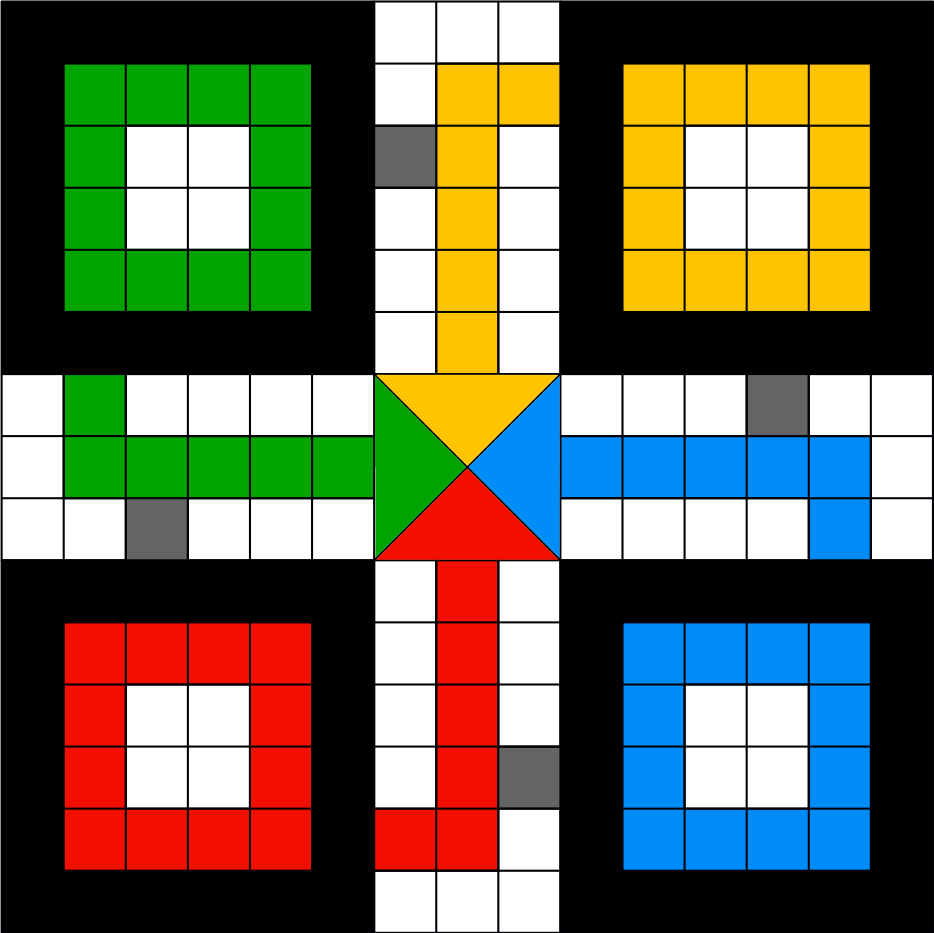
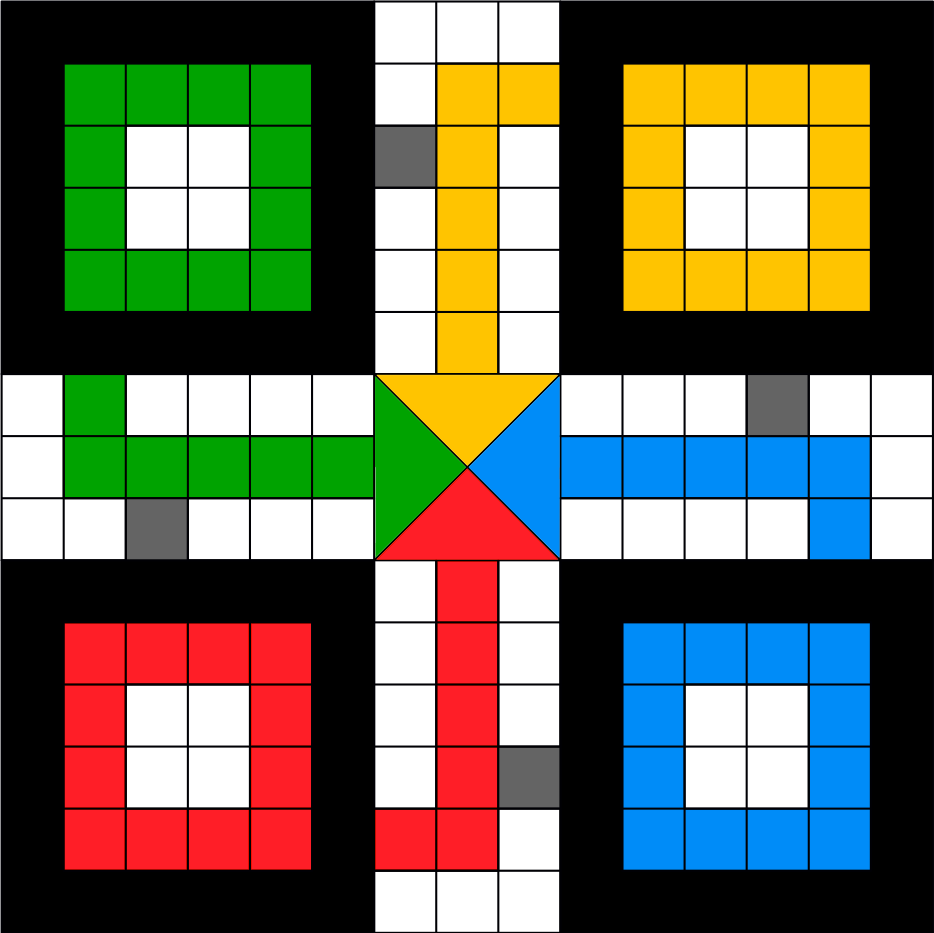
added logic on user turn

Changed region(s): [[0.0621, 0.6527, 0.3415, 0.9325], [0.4036, 0.4973, 0.5899, 0.9325]]

diff --git a/lib/providers/game_state.dart b/lib/providers/game_state.dart
@@ -102,7 +102,7 @@ class GameState with ChangeNotifier {
         });
       }
       if (cutToken != null) {
-        _cutOutToken(cutToken, duration, existingToken);
+        _cutOutToken(cutToken, duration);
       }
       validateFreeTurn(steps, token, cutToken);
     } else if (token.tokenState != TokenState.initial) {
@@ -123,7 +123,7 @@ class GameState with ChangeNotifier {
         });
       }
       if (cutToken != null) {
-        _cutOutToken(cutToken, duration, existingToken);
+        _cutOutToken(cutToken, duration);
       }
        validateFreeTurn(steps, token, cutToken);
     }
@@ -131,36 +131,35 @@ class GameState with ChangeNotifier {
 
   validateFreeTurn(int steps, Token token, var cutToken) {
     if (steps == 6) {
-      FreeTurn.updateFreeTurn(token.userId, true);
-    } else {
+      FreeTurn.updateUserStatus(token.userId, true, false);
+     } else {
       updateNextTurn(token);
     }
     if (cutToken != null) {
-      FreeTurn.updateFreeTurn(token.userId, true);
+      FreeTurn.updateUserStatus(token.userId, true, false);
     } else if (steps != 6) {
       updateNextTurn(token);
     }
   }
 
   void updateNextTurn(Token token) {
-    FreeTurn.updateFreeTurn(token.userId, false);
+    FreeTurn.updateUserStatus(token.userId, false, false);
     int userIdIndex = assignableUserIds.indexOf(token.userId);
     if(userIdIndex < 3) {
-      FreeTurn.updateFreeTurn(assignableUserIds[userIdIndex+1], true);
+      FreeTurn.updateUserStatus(assignableUserIds[userIdIndex+1], true, false);
     } else {
-      FreeTurn.updateFreeTurn(assignableUserIds[0], true);
+      FreeTurn.updateUserStatus(assignableUserIds[0], true, false);
     }
   }
 
-  _cutOutToken(Token cutToken, int duration, Token existingToken) {
+  _cutOutToken(Token cutToken, int duration) {
     int cutSteps = cutToken.positionInPath;
     for (int i = 1; i <= cutSteps; i++) {
       duration = duration + 100;
       Future.delayed(Duration(milliseconds: duration), () {
         int stepLoc = cutToken.positionInPath - 1;
-        existingToken.tokenPosition =
-            _getPosition(cutToken.type, stepLoc);
-        existingToken.positionInPath = stepLoc;
+        cutToken.tokenPosition = _getPosition(cutToken.type, stepLoc);
+        cutToken.positionInPath = stepLoc;
         cutToken.positionInPath = stepLoc;
         notifyListeners();
       });
@@ -252,29 +251,29 @@ class GameState with ChangeNotifier {
     switch (token.type) {
       case TokenType.green:
         {
-          gameTokens[token.id].tokenState = TokenState.initial;
-          gameTokens[token.id].tokenPosition = greenInitital.first;
+          token.tokenState = TokenState.initial;
+          token.tokenPosition = greenInitital.first;
           greenInitital.removeAt(0);
         }
         break;
       case TokenType.yellow:
         {
-          gameTokens[token.id].tokenState = TokenState.initial;
-          gameTokens[token.id].tokenPosition = yellowInitital.first;
+          token.tokenState = TokenState.initial;
+          token.tokenPosition = yellowInitital.first;
           yellowInitital.removeAt(0);
         }
         break;
       case TokenType.blue:
         {
-          gameTokens[token.id].tokenState = TokenState.initial;
-          gameTokens[token.id].tokenPosition = blueInitital.first;
+          token.tokenState = TokenState.initial;
+          token.tokenPosition = blueInitital.first;
           blueInitital.removeAt(0);
         }
         break;
       case TokenType.red:
         {
-          gameTokens[token.id].tokenState = TokenState.initial;
-          gameTokens[token.id].tokenPosition = redInitital.first;
+          token.tokenState = TokenState.initial;
+          token.tokenPosition = redInitital.first;
           redInitital.removeAt(0);
         }
         break;

diff --git a/lib/widgets/tokenp.dart b/lib/widgets/tokenp.dart
@@ -12,21 +12,9 @@ class Tokenp extends StatelessWidget {
   //Function(Token) callBack;
   const Tokenp(this.token, this.dimentions, {super.key});
 
-  Color _getcolor() {
-    switch (token.type) {
-      case TokenType.green:
-        return Colors.green;
-      case TokenType.yellow:
-        return Colors.yellow.shade900;
-      case TokenType.blue:
-        return Colors.blue.shade600;
-      case TokenType.red:
-        return Colors.red;
-    }
-  }
-
   @override
   Widget build(BuildContext context) {
+    bool? freeTurn = FreeTurn.freeTurnMap[token.userId]?.getFreeTurn;
     final gameState = Provider.of<GameState>(context, listen: false);
     final dice = Provider.of<DiceModel>(context, listen: false);
     return AnimatedPositioned(
@@ -37,8 +25,8 @@ class Tokenp extends StatelessWidget {
       height: dimentions[3],
       child: GestureDetector(
         onTap: () {
-          print(FreeTurn.freeTurnMap[token.userId]);
-          if(FreeTurn.freeTurnMap[token.userId]!) {
+          bool? diceRoll = FreeTurn.freeTurnMap[token.userId]?.diceRoll;
+          if(freeTurn == true && diceRoll == true) {
             gameState.moveToken(token, detectTokenDiceNumber(token, dice));
           } else {
             showDialog(context: context, builder: (_) {
@@ -46,14 +34,11 @@ class Tokenp extends StatelessWidget {
             });
           }
         },
-        child: Card(
-          elevation: 5,
-          child: Icon(
+        child: Icon(
             Icons.cruelty_free_sharp,
             color: _getcolor(),
-            size: 25.0,
+            size: 28.0,
           ),
-        ),
       ),
     );
   }
@@ -72,5 +57,18 @@ class Tokenp extends StatelessWidget {
         return dice.diceTwoCount;
       }
       return 0;
+  }
+
+  Color _getcolor() {
+    switch (token.type) {
+      case TokenType.green:
+        return Colors.green.shade900;
+      case TokenType.yellow:
+        return Colors.yellow.shade900;
+      case TokenType.blue:
+        return Colors.blue.shade900;
+      case TokenType.red:
+        return Colors.red.shade900;
+    }
   }
 }

diff --git a/lib/main.dart b/lib/main.dart
@@ -22,7 +22,7 @@ class MyApp extends StatelessWidget {
   @override
   Widget build(BuildContext context) {
     return MaterialApp(
-      title: 'Flutter Demo',
+      title: 'Flame',
       theme: ThemeData(
         primarySwatch: Colors.blue,
       ),
@@ -32,7 +32,7 @@ class MyApp extends StatelessWidget {
             ChangeNotifierProvider(create: (context) => DiceModel()),
           ],
           child: const _MyHomePage(
-            title: 'Flutter Demo Home Page',
+            title: 'Flame',
             key: null,
           )),
     );
@@ -56,7 +56,7 @@ class _MyHomePageState extends State<_MyHomePage> {
   void initState() {
     userIds = [123,789,456,678];  
     detectDiceUserId();
-    FreeTurn.updateFreeTurn(assignableUserIds[0], true);
+    FreeTurn.updateUserStatus(assignableUserIds[0], true, false);
     super.initState();
   }
 
@@ -91,6 +91,7 @@ class _MyHomePageState extends State<_MyHomePage> {
     final gameState = Provider.of<GameState>(context);
     gameState.setAssinableUserId(assignableUserIds);
     return Scaffold(
+      backgroundColor: Colors.blue.shade300,
       appBar: AppBar(
         key: keyBar,
         title: Text(widget.title),
@@ -100,7 +101,7 @@ class _MyHomePageState extends State<_MyHomePage> {
         children: [
           Row(
             mainAxisAlignment: MainAxisAlignment.spaceBetween,
-            children: [GreenDice(assignableUserIds[1]),Text('${assignableUserIds[1]}'), Spacer(), YellowDice(assignableUserIds[2]), Text('${assignableUserIds[2]}')],
+            children: [GreenDice(assignableUserIds[1]),Text('${assignableUserIds[1]}'), const Spacer(), YellowDice(assignableUserIds[2]), Text('${assignableUserIds[2]}')],
           ),
           LudoArena(keyBar, gameState),
           Row(

diff --git a/lib/dice/yellow_dice.dart b/lib/dice/yellow_dice.dart
@@ -16,11 +16,14 @@ class YellowDice extends StatelessWidget {
         dice.generateDiceThree();
       });
     }
+    FreeTurn.updateUserStatus(userId, true, true);
   }
 
   @override
   @override
   Widget build(BuildContext context) {
+    bool? freeTurn = FreeTurn.freeTurnMap[userId]?.getFreeTurn;
+    bool? diceRoll = FreeTurn.freeTurnMap[userId]?.getDiceRoll;
     List<String> diceOneImages = [
       "assets/images/1.png",
       "assets/images/2.png",
@@ -49,7 +52,7 @@ class YellowDice extends StatelessWidget {
                 Expanded(
                   child: GestureDetector(
                     onTap: () => {
-                      if (FreeTurn.freeTurnMap[userId]!) {
+                       if (diceRoll == false && freeTurn == true) {
                         updateDices(dice)
                       }
                       else {

diff --git a/lib/dice/green_dice.dart b/lib/dice/green_dice.dart
@@ -16,11 +16,14 @@ class GreenDice extends StatelessWidget {
         dice.generateDiceFour();
       });
     }
+    FreeTurn.updateUserStatus(userId, true, true);
   }
 
   @override
   @override
   Widget build(BuildContext context) {
+    bool? freeTurn = FreeTurn.freeTurnMap[userId]?.getFreeTurn;
+    bool? diceRoll = FreeTurn.freeTurnMap[userId]?.getDiceRoll;
     List<String> diceOneImages = [
       "assets/images/1.png",
       "assets/images/2.png",
@@ -49,7 +52,7 @@ class GreenDice extends StatelessWidget {
                 Expanded(
                   child: GestureDetector(
                     onTap: () => {
-                      if (FreeTurn.freeTurnMap[userId]!) {
+                      if (diceRoll == false && freeTurn == true) {
                         updateDices(dice)
                       }
                       else {

diff --git a/lib/dice/blue_dice.dart b/lib/dice/blue_dice.dart
@@ -16,10 +16,13 @@ class BlueDice extends StatelessWidget {
         dice.generateDiceTwo();
       });
     }
+    FreeTurn.updateUserStatus(userId, true, true);
   }
 
   @override
   Widget build(BuildContext context) {
+    bool? freeTurn = FreeTurn.freeTurnMap[userId]?.getFreeTurn;
+    bool? diceRoll = FreeTurn.freeTurnMap[userId]?.getDiceRoll;
     List<String> diceOneImages = [
       "assets/images/1.png",
       "assets/images/2.png",
@@ -48,7 +51,7 @@ class BlueDice extends StatelessWidget {
                 Expanded(
                   child: GestureDetector(
                     onTap: () => {
-                      if (FreeTurn.freeTurnMap[userId]!) {
+                      if (diceRoll == false && freeTurn == true) {
                         updateDices(dice)
                       }
                       else {

diff --git a/lib/dice/red_dice.dart b/lib/dice/red_dice.dart
@@ -18,10 +18,13 @@ class RedDice extends StatelessWidget {
         dice.generateDiceOne();
       });
     }
+    FreeTurn.updateUserStatus(userId, true, true);
   }
 
   @override
   Widget build(BuildContext context) {
+    bool? freeTurn = FreeTurn.freeTurnMap[userId]?.getFreeTurn;
+    bool? diceRoll = FreeTurn.freeTurnMap[userId]?.getDiceRoll;
     List<String> diceOneImages = [
       "assets/images/1.png",
       "assets/images/2.png",
@@ -50,7 +53,7 @@ class RedDice extends StatelessWidget {
                 Expanded(
                   child: GestureDetector(
                     onTap: () => {
-                      if (FreeTurn.freeTurnMap[userId]!) {
+                      if (diceRoll == false && freeTurn == true) {
                         updateDices(dice)
                       }
                       else {

diff --git a/lib/widgets/ludo_arena.dart b/lib/widgets/ludo_arena.dart
@@ -45,8 +45,6 @@ List<double> _getPosition(int row, int column) {
     var listFrame = <double>[];
     double x, y, w, h;
     if (widget.keyBar.currentContext == null) return [0, 0, 0, 0];
-    // final RenderBox renderBoxBar =
-    //     widget.keyBar.currentContext!.findRenderObject()! as RenderBox;
     final cellBoxKey = keyRefrences[row][column];
     final RenderBox renderBoxCell =
         cellBoxKey.currentContext!.findRenderObject()! as RenderBox;
@@ -55,7 +53,6 @@ List<double> _getPosition(int row, int column) {
     y = positionCell.dy - 250;
     w = renderBoxCell.size.width;
     h = renderBoxCell.size.height;
-
     listFrame.add(x);
     listFrame.add(y);
     listFrame.add(w);

diff --git a/lib/providers/free_turn.dart b/lib/providers/free_turn.dart
@@ -1,8 +1,15 @@
 
-class FreeTurn {
-  static var freeTurnMap = {123: false, 789: false, 456: false, 678: false};
+import 'package:ludo_poc/models/user_status.dart';
 
-  static void updateFreeTurn(int userId, bool turn) {
-    freeTurnMap[userId] = turn;
+class FreeTurn {
+  static var freeTurnMap = {
+    123: UserStatus(false, false, 0),
+    789: UserStatus(false, false, 0),
+    456: UserStatus(false, false, 0),
+    678: UserStatus(false, false, 0),
+  };
+
+  static void updateUserStatus(int userId, bool freeTurn, bool diceRoll) {
+    freeTurnMap[userId] = UserStatus(freeTurn, diceRoll, 0);
   }
 }

diff --git a/lib/widgets/board.dart b/lib/widgets/board.dart
@@ -8,6 +8,7 @@ class Board extends StatelessWidget {
   const Board(this.keyRefrences, {super.key});
 
   List<Container> _getRows() {
+    
     List<Container> rows = [];
     for (var i = 0; i < 15; i++) {
       rows.add(
@@ -37,7 +38,7 @@ class Board extends StatelessWidget {
         child: Container(
           decoration: const BoxDecoration(
             image: DecorationImage(
-              image: AssetImage("assets/images/ludo_board.png"),
+              image: AssetImage("assets/images/ludo_board_original.png"),
               fit: BoxFit.fill,
             ),
           ),

diff --git a/lib/models/user_status.dart b/lib/models/user_status.dart
@@ -1,0 +1,25 @@
+class UserStatus
+{
+   bool freeTurn;
+   bool diceRoll;
+   int score;
+  
+  UserStatus(this.freeTurn,this.diceRoll,this.score);
+
+  updateFreeTurn(bool freeTurn) {
+     freeTurn = freeTurn;
+  }
+
+  updateRollDice(bool diceRoll) {
+     diceRoll = diceRoll;
+  }
+
+  bool get getFreeTurn {
+    return freeTurn;
+  }
+
+  bool get getDiceRoll {
+    return diceRoll;
+  }
+ 
+}
